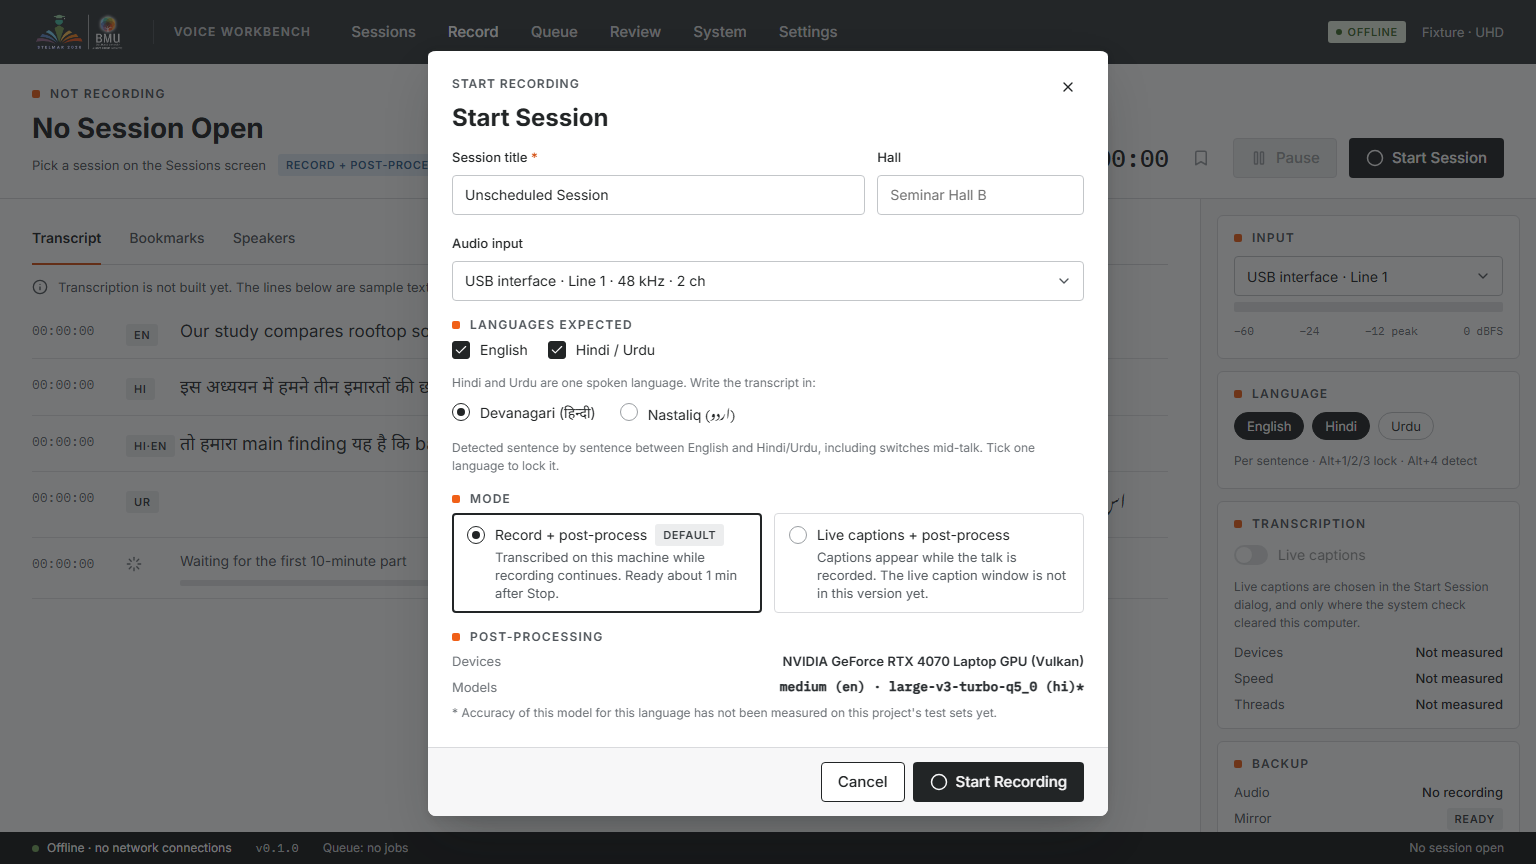
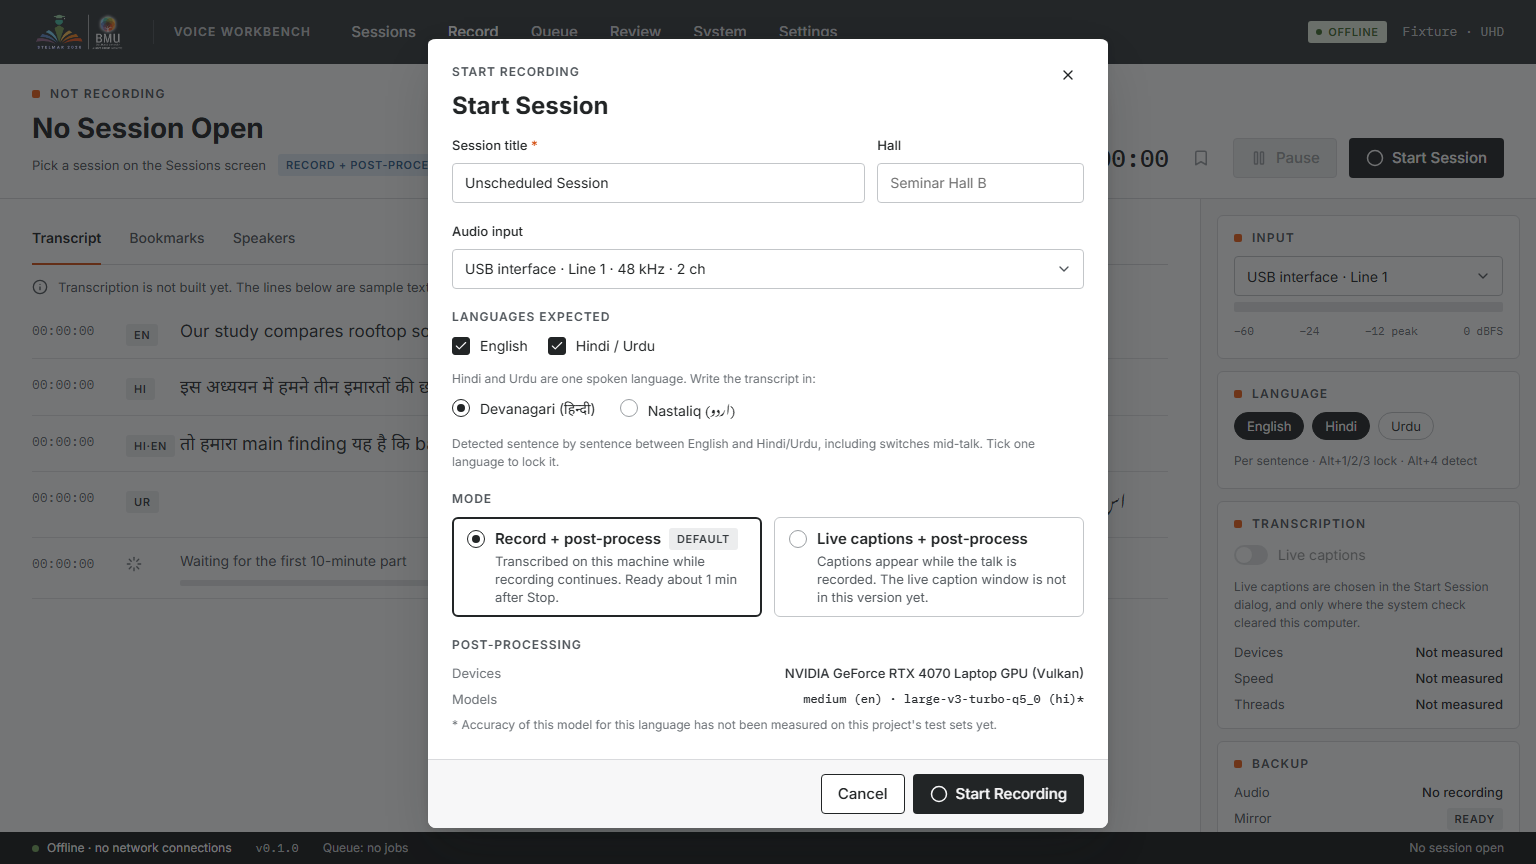
UI: design review fixes (Title Case buttons, dialog labels and mode cards, ready card, verdict wording, top-bar label); screenshots again

diff --git a/src/screens/SystemScreen.tsx b/src/screens/SystemScreen.tsx
@@ -63,6 +63,10 @@ const TIER_TONE: Record<Tier, "success" | "neutral" | "warning"> = {
 
 const OVERRIDES: OverrideKind[] = ["process_while_recording", "pause_on_battery", "allow_live_anyway"];
 
+function capitalise(text: string): string {
+  return text.charAt(0).toUpperCase() + text.slice(1);
+}
+
 function Notice({ tone, title, children }: { tone: "warning" | "info"; title: string; children?: ReactNode }) {
   const fg = tone === "warning" ? "var(--status-warning-fg)" : "var(--status-info-fg)";
   const bg = tone === "warning" ? "var(--status-warning-bg)" : "var(--status-info-bg)";
@@ -180,10 +184,19 @@ export function SystemScreen({ capability, onContinue }: SystemScreenProps) {
             {cap && (
               <SideCard title="Ready after a 90-minute talk">
                 <KeyValue
-                  rows={readyRows(cap).map((r): [string, string, { mono?: boolean }] => [
+                  rows={readyRows(cap).map((r): [string, ReactNode, { mono?: boolean }] => [
                     r.label,
-                    r.value,
-                    { mono: r.label !== "Night pass" },
+                    r.note ? (
+                      <>
+                        <span style={{ fontFamily: r.label === "Night pass" ? undefined : "var(--font-mono)" }}>{r.value}</span>
+                        <div style={{ fontFamily: "var(--font-body)", fontWeight: "var(--fw-regular)", color: "var(--text-muted)" }}>
+                          {r.note}
+                        </div>
+                      </>
+                    ) : (
+                      r.value
+                    ),
+                    { mono: r.label !== "Night pass" && !r.note },
                   ])}
                 />
               </SideCard>
@@ -214,7 +227,7 @@ export function SystemScreen({ capability, onContinue }: SystemScreenProps) {
         )}
         {view && view.fingerprint_changes.length > 0 && !running && (
           <Notice tone="warning" title="This computer or the app has changed since the last check">
-            {view.fingerprint_changes.join(" · ")}. Run the check again to be sure the choices below still hold.
+            {capitalise(view.fingerprint_changes.join(" · "))}. Run the check again to be sure the choices below still hold.
             <div style={{ marginTop: 8 }}>
               <Button size="sm" onClick={() => void capability.run(false)}>
                 Re-run Quick Check
@@ -299,7 +312,7 @@ export function SystemScreen({ capability, onContinue }: SystemScreenProps) {
         footer={
           <>
             <Button variant="secondary" onClick={() => setPending(null)}>
-              Keep the current setting
+              Keep the Current Setting
             </Button>
             <Button
               onClick={() => {
@@ -307,7 +320,7 @@ export function SystemScreen({ capability, onContinue }: SystemScreenProps) {
                 setPending(null);
               }}
             >
-              {pending?.enabled ? "Turn on" : "Turn off"}
+              {pending?.enabled ? "Turn On" : "Turn Off"}
             </Button>
           </>
         }

diff --git a/src/screens/StartSessionDialog.tsx b/src/screens/StartSessionDialog.tsx
@@ -5,7 +5,7 @@ import { px } from "../ds/units";
 import { sessionPlan } from "../ipc";
 import type { HindiUrduScript, InputDevice, SessionPlan } from "../ipc";
 import { format } from "../recording/format";
-import { Note, Overline } from "../shell/layout";
+import { Note } from "../shell/layout";
 import { LANG_NAME, recordPostText } from "../system/view";
 
 // Start Session dialog per design/mockups/start-session.html. Mode, devices, models and the ready time
@@ -36,8 +36,22 @@ export interface StartSessionDialogProps {
 const MODE_GROUP = "start-mode";
 const SCRIPT_GROUP = "start-script";
 
+// The mockup's dialog labels are plain overlines without the orange dot.
 function Label({ children }: { children: ReactNode }) {
-  return <Overline style={{ marginBottom: 6 }}>{children}</Overline>;
+  return (
+    <div
+      style={{
+        fontSize: "var(--fs-overline)",
+        fontWeight: "var(--fw-semibold)",
+        letterSpacing: "0.08em",
+        textTransform: "uppercase",
+        color: "var(--ink-600)",
+        marginBottom: 6,
+      }}
+    >
+      {children}
+    </div>
+  );
 }
 
 function ModeCard({
@@ -60,8 +74,8 @@ function ModeCard({
   return (
     <div
       style={{
-        border: `${selected ? 2 : 1}px solid ${selected ? "var(--ink-900)" : "var(--border-hairline)"}`,
-        borderRadius: "var(--radius-sm)",
+        border: `${px(selected ? 2 : 1)} solid ${selected ? "var(--ink-900)" : "var(--ink-300)"}`,
+        borderRadius: "var(--radius-md)",
         padding: px(selected ? 9 : 10, selected ? 13 : 14),
         background: disabled ? "var(--paper-50)" : "var(--paper-0)",
       }}
@@ -73,7 +87,7 @@ function ModeCard({
         disabled={disabled}
         onChange={onPick}
         label={
-          <span style={{ display: "inline-flex", gap: 8, alignItems: "center" }}>
+          <span style={{ display: "inline-flex", gap: 8, alignItems: "center", fontSize: 15, fontWeight: "var(--fw-semibold)" }}>
             {label}
             {badge}
           </span>
@@ -248,9 +262,9 @@ export function StartSessionDialog({
           <Label>Post-processing</Label>
           <div style={{ display: "grid", gridTemplateColumns: "auto 1fr", gap: px(6, 14), fontSize: 13, lineHeight: px(20), textAlign: "right" }}>
             <span style={{ color: "var(--text-muted)", textAlign: "left" }}>Devices</span>
-            <b style={{ fontWeight: "var(--fw-semibold)" }}>{plan ? plan.devices : "Decided by the system check"}</b>
+            <b style={{ fontWeight: "var(--fw-medium)" }}>{plan ? plan.devices : "Decided by the system check"}</b>
             <span style={{ color: "var(--text-muted)", textAlign: "left" }}>Models</span>
-            <b style={{ fontWeight: "var(--fw-semibold)", fontFamily: "var(--font-mono)" }}>
+            <b style={{ fontWeight: "var(--fw-medium)", fontFamily: "var(--font-mono)", fontSize: "var(--fs-caption)" }}>
               {plan && plan.models.length > 0
                 ? plan.models.map((m) => `${m.model} (${m.lang})${m.quality_unverified ? "*" : ""}`).join(" · ")
                 : "—"}

diff --git a/src/system/view.ts b/src/system/view.ts
@@ -189,13 +189,19 @@ export function hardwareRows(cap: Capability): HardwareRow[] {
 export interface ReadyRow {
   label: string;
   value: string;
+  /** A sentence under the value, set in the body font (the value itself is a time or a duration). */
+  note?: string;
   bold?: boolean;
 }
 
 /** The Verdict card's paragraphs: the rules' summary lines without the per-language lines, which the
  * "Ready after a 90-minute talk" card and the speed table already show. */
 export function verdictLines(cap: Capability): string[] {
-  return cap.decision.verdict.filter((line) => !/^(English|Hindi|Urdu)\b/.test(line));
+  // The card's heading already names the mode, so a first sentence that only repeats it is dropped.
+  return cap.decision.verdict
+    .filter((line) => !/^(English|Hindi|Urdu)\b/.test(line))
+    .map((line) => line.replace(/^Record only\.\s*/, "").replace(/^Record \+ post-process\.\s+/, ""))
+    .filter((line) => line.length > 0);
 }
 
 /** The "Ready after a 90-minute talk" card: English, Hindi, Urdu and the night pass. */
@@ -206,7 +212,7 @@ export function readyRows(cap: Capability): ReadyRow[] {
     if (!r) {
       rows.push({ label: LANG_NAME[lang], value: "not measured" });
     } else if (r.lags) {
-      rows.push({ label: LANG_NAME[lang], value: `${aboutMinutes(r.ready_after_stop_min)}; ${LAG_TEXT}` });
+      rows.push({ label: LANG_NAME[lang], value: aboutMinutes(r.ready_after_stop_min), note: LAG_TEXT });
     } else {
       rows.push({ label: LANG_NAME[lang], value: aboutMinutes(r.ready_after_stop_min) });
     }
@@ -215,12 +221,8 @@ export function readyRows(cap: Capability): ReadyRow[] {
   const measured = (["en", "hi", "ur"] as const).every((l) => cap.decision.languages[l]?.night_note !== "The night model is measured by the full check.");
   rows.push({
     label: "Night pass",
-    value:
-      nightLangs.length > 0
-        ? `Done by 08:00 (${nightLangs.map((l) => LANG_NAME[l]).join(", ")})`
-        : measured
-          ? "None needed"
-          : "Measured by the full check",
+    value: nightLangs.length > 0 ? "Done by 08:00" : measured ? "None needed" : "Measured by the full check",
+    note: nightLangs.length > 0 ? nightLangs.map((l) => LANG_NAME[l]).join(", ") : undefined,
   });
   return rows;
 }

diff --git a/src/system/view.test.ts b/src/system/view.test.ts
@@ -60,7 +60,8 @@ describe("hardware and ready time", () => {
 
   it("says a lagging language lags", () => {
     const rows = readyRows(profile("tier-c-cpu-only"));
-    expect(rows.find((r) => r.label === "Hindi")?.value).toMatch(/take hours on this computer; the recording is not affected/);
+    expect(rows.find((r) => r.label === "Hindi")?.note).toMatch(/take hours on this computer; the recording is not affected/);
+    expect(rows.find((r) => r.label === "Hindi")?.value).toMatch(/^about /);
     expect(rows.find((r) => r.label === "English")?.value).not.toMatch(/lags/);
   });
 });
@@ -112,7 +113,7 @@ describe("the verdict card", () => {
     expect(cap.decision.verdict.some((l) => /^English/.test(l))).toBe(true);
     const lines = verdictLines(cap);
     expect(lines.some((l) => /^(English|Hindi|Urdu)/.test(l))).toBe(false);
-    expect(lines[0]).toMatch(/Record \+ post-process/);
+    expect(lines[0]).toMatch(/^Live text is off by default/);
   });
 });
 

diff --git a/src/App.test.tsx b/src/App.test.tsx
@@ -190,7 +190,7 @@ describe("the System screen with a saved profile", () => {
     const dialog = await screen.findByRole("dialog");
     expect(within(dialog).getByText(/runs on its battery/)).toBeTruthy();
     expect(calls).not.toContain("set_override");
-    fireEvent.click(within(dialog).getByRole("button", { name: "Turn off" }));
+    fireEvent.click(within(dialog).getByRole("button", { name: "Turn Off" }));
     await waitFor(() => expect(calls).toContain("set_override"));
     await waitFor(() => expect((screen.getByRole("switch", { name: "Pause on battery power" }) as HTMLInputElement).checked).toBe(false));
   });

diff --git a/e2e/system.spec.ts b/e2e/system.spec.ts
@@ -80,7 +80,7 @@ test("a safeguard override asks first", async ({ page }) => {
   await expect(dialog.getByText(/runs on its battery/)).toBeVisible();
   await ready(page);
   await page.screenshot({ path: `${SHOTS}/system-override-dialog.png` });
-  await dialog.getByRole("button", { name: "Keep the current setting" }).click();
+  await dialog.getByRole("button", { name: "Keep the Current Setting" }).click();
   await expect(dialog).toHaveCount(0);
 });
 

diff --git a/src/App.tsx b/src/App.tsx
@@ -92,7 +92,7 @@ export function App() {
         overflow: "hidden",
       }}
     >
-      <TopBar active={route} onNavigate={setRoute} machineLabel={profileText} />
+      <TopBar active={route} onNavigate={setRoute} machineLabel={profileText} machineMono={!!cap} />
       <Screen route={route} hasProfile={profileSaved} recorder={recorder} notify={notify} capability={capability} onNavigate={setRoute} />
       <StatusBar
         items={[
